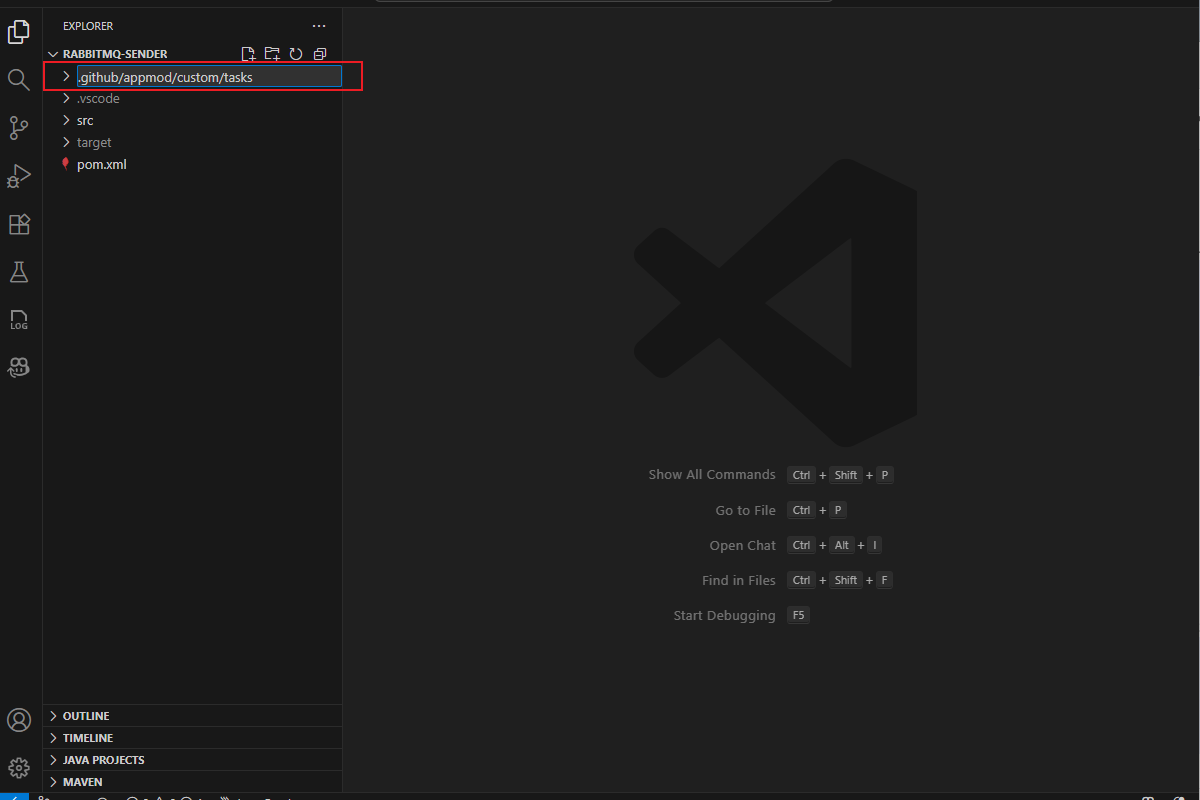
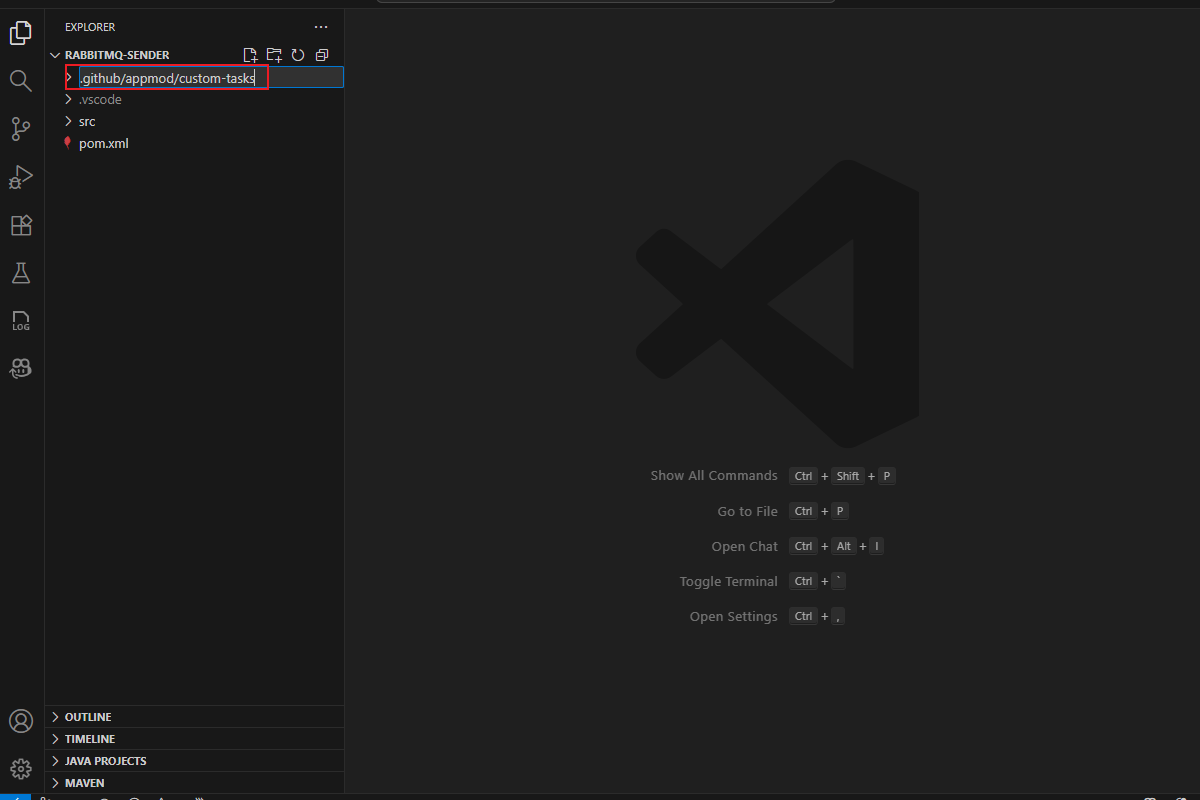
update

diff --git a/articles/java/migration/migrate-github-copilot-app-modernization-for-java-quickstart-create-and-apply-your-own-task.md b/articles/java/migration/migrate-github-copilot-app-modernization-for-java-quickstart-create-and-apply-your-own-task.md
@@ -29,7 +29,7 @@ The following video demonstrates using GitHub Copilot app modernization to creat
 
 ## Create your own task
 
-Now we support 3 ways to create a task: Text Files, External links and Git commits. You can use one method at a time, or combine multiple methods.
+Now we support 3 ways to add references: Text Files, External links and Git commits. You can use one or more methods at a time.
 
 ### Using Git commits
 
@@ -61,46 +61,47 @@ Use the following steps to create your own task:
 
 ### Using External links and Text Files
 
-1. Follow the predefined steps to open a 'task.md' file.
+1. Open the 'task.md' file by following the predefined steps in the GitHub Copilot App Modernization extension.
 
-1. In a opened 'task.md' file, enter the **Task Name** and **Task Prompt** as shown below:
-   - Task Name: Expose health endpoint via Spring Boot Actuator
-   - Task Prompt: You are a Spring Boot developer assistant, follow the Spring Boot Actuator documentation to add basic health endpoints for Azure Container Apps deployment.
+1. In a opened 'task.md' file, enter the following:
+   - **Task Name**: Expose health endpoint via Spring Boot Actuator
+   - **Task Prompt**: You are a Spring Boot developer assistant, follow the Spring Boot Actuator documentation to add basic health endpoints for Azure Container Apps deployment.
 
    :::image type="content" source="./media/migrate-github-copilot-app-modernization-for-java/type-ex-link-name-and-prompt.png" lightbox="./media/migrate-github-copilot-app-modernization-for-java/type-ex-link-name-and-prompt.png" alt-text="Screenshot of Visual Studio Code that shows the Create a new task using external link.":::
 
-1. Click the **Add References** button to add the Spring Boot Actuator official documentation as references. In the popped-up quick-pick window, select External links. Then paste the following link: "https://docs.spring.io/spring-boot/reference/actuator/endpoints.html" and press enter to confirm. 
+1. Click the **Add References** button. In the popped-up quick-pick window, select **External links**. Then paste the following URL: 'https://docs.spring.io/spring-boot/reference/actuator/endpoints.html' and press **Enter** to confirm.
 
    :::image type="content" source="./media/migrate-github-copilot-app-modernization-for-java/type-link.png" lightbox="./media/migrate-github-copilot-app-modernization-for-java/type-link.png" alt-text="Screenshot of Visual Studio Code that shows the Create a new task typing link.":::
 
-1. Create a file to write the following info:
-   ```
-   expose everything over HTTP except the env and beans endpoints, use the following properties: 
-   management.endpoints.web.exposure.include=*
-   management.endpoints.web.exposure.exclude=env,beans
+1. Create a file to write the following content:
+   ```text
+   In this migration, only expose the health endpoints over web, use the following property:
+   management.endpoints.web.exposure.include=health
    ``` 
    
-1. Click the **Add References** button and select Text Files. Then find the file you created and click **Select File**.
+1. Click the **Add References** again, this time select **Text Files**. Locate the file you just created and click **Select File**.
 
-1. Now you have 2 references. Click Save to create the task.
+1. You should now see two references added: one external link and one text file. Click **Save** to finalize and create the task.
 
    :::image type="content" source="./media/migrate-github-copilot-app-modernization-for-java/save-file-and-link.png" lightbox="./media/migrate-github-copilot-app-modernization-for-java/save-file-and-link.png" alt-text="Screenshot of Visual Studio Code that shows the Create a new task by text files and link.":::
 
 ## Share your own task
 
-Use the following steps you can share your own task:
+To share your task with others:
 
-1. Copy your created tasks folder and then send to the one you want to share.
+1. Copy the folder located under **.github/appmod/custom-tasks** that contains your created task, and share it with the intended recipient.
+
+   :::image type="content" source="./media/migrate-github-copilot-app-modernization-for-java/copy-custom-folder.png" lightbox="./media/migrate-github-copilot-app-modernization-for-java/copy-custom-folder.png" alt-text="Screenshot of Visual Studio Code that shows copy a custom folder.":::
+
+1. On the recipient's side, create a **.github/appmod/custom-tasks** directory within the source path of their project.
 
    :::image type="content" source="./media/migrate-github-copilot-app-modernization-for-java/create-custom-folder.png" lightbox="./media/migrate-github-copilot-app-modernization-for-java/create-custom-folder.png" alt-text="Screenshot of Visual Studio Code that shows create a custom folder.":::
 
-1. Create **.github/appmod/custom-tasks** folder in source path.
-
-1. Paste the task folder here and click **Refresh Task** button.
+1. Paste the task folder into this directory and click the **Refresh Task** button in the extension pane.
 
    :::image type="content" source="./media/migrate-github-copilot-app-modernization-for-java/refresh-task.png" lightbox="./media/migrate-github-copilot-app-modernization-for-java/refresh-task.png" alt-text="Screenshot of Visual Studio Code that shows refresh task.":::
 
-1. Now the share finished.
+1. The task will now appear in the **TASKS - My Tasks** section, ready to be used.
 
    :::image type="content" source="./media/migrate-github-copilot-app-modernization-for-java/refreshed-task.png" lightbox="./media/migrate-github-copilot-app-modernization-for-java/refreshed-task.png" alt-text="Screenshot of Visual Studio Code that shows refreshed task.":::
 
